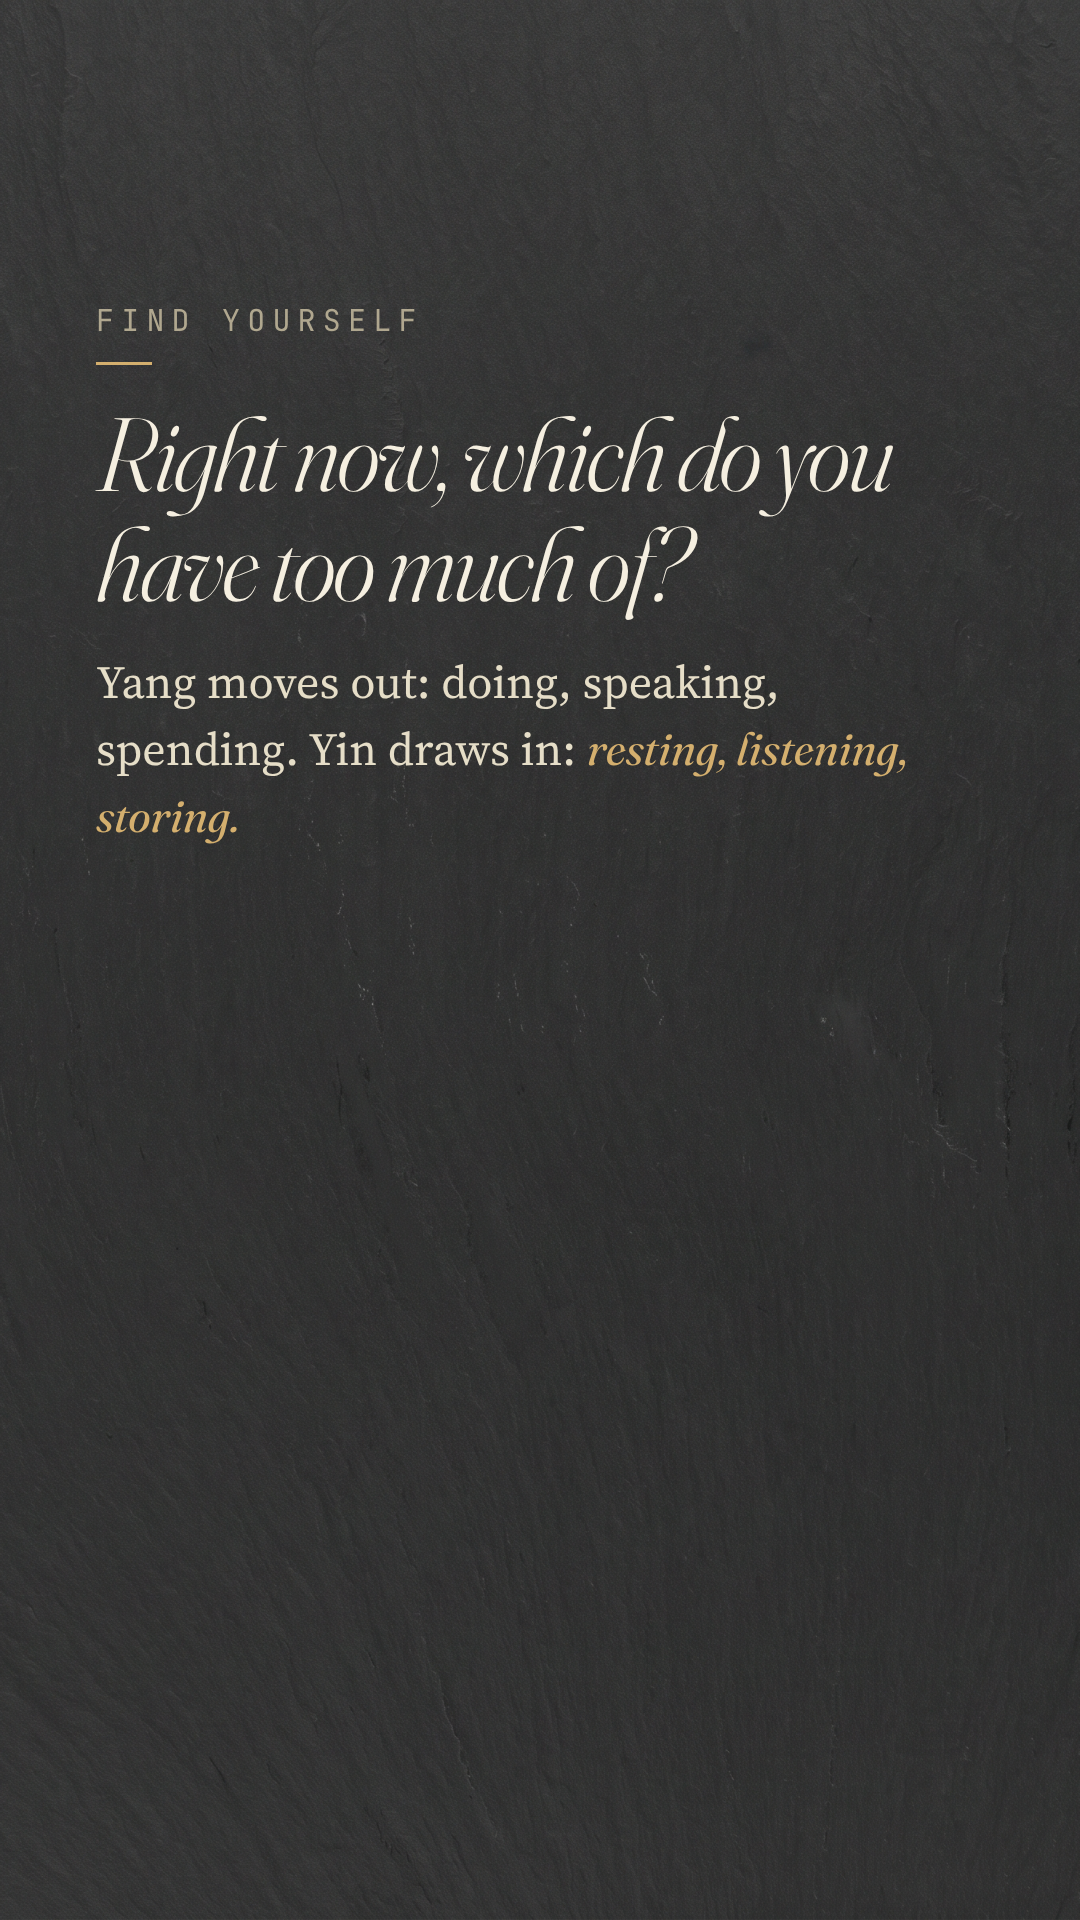
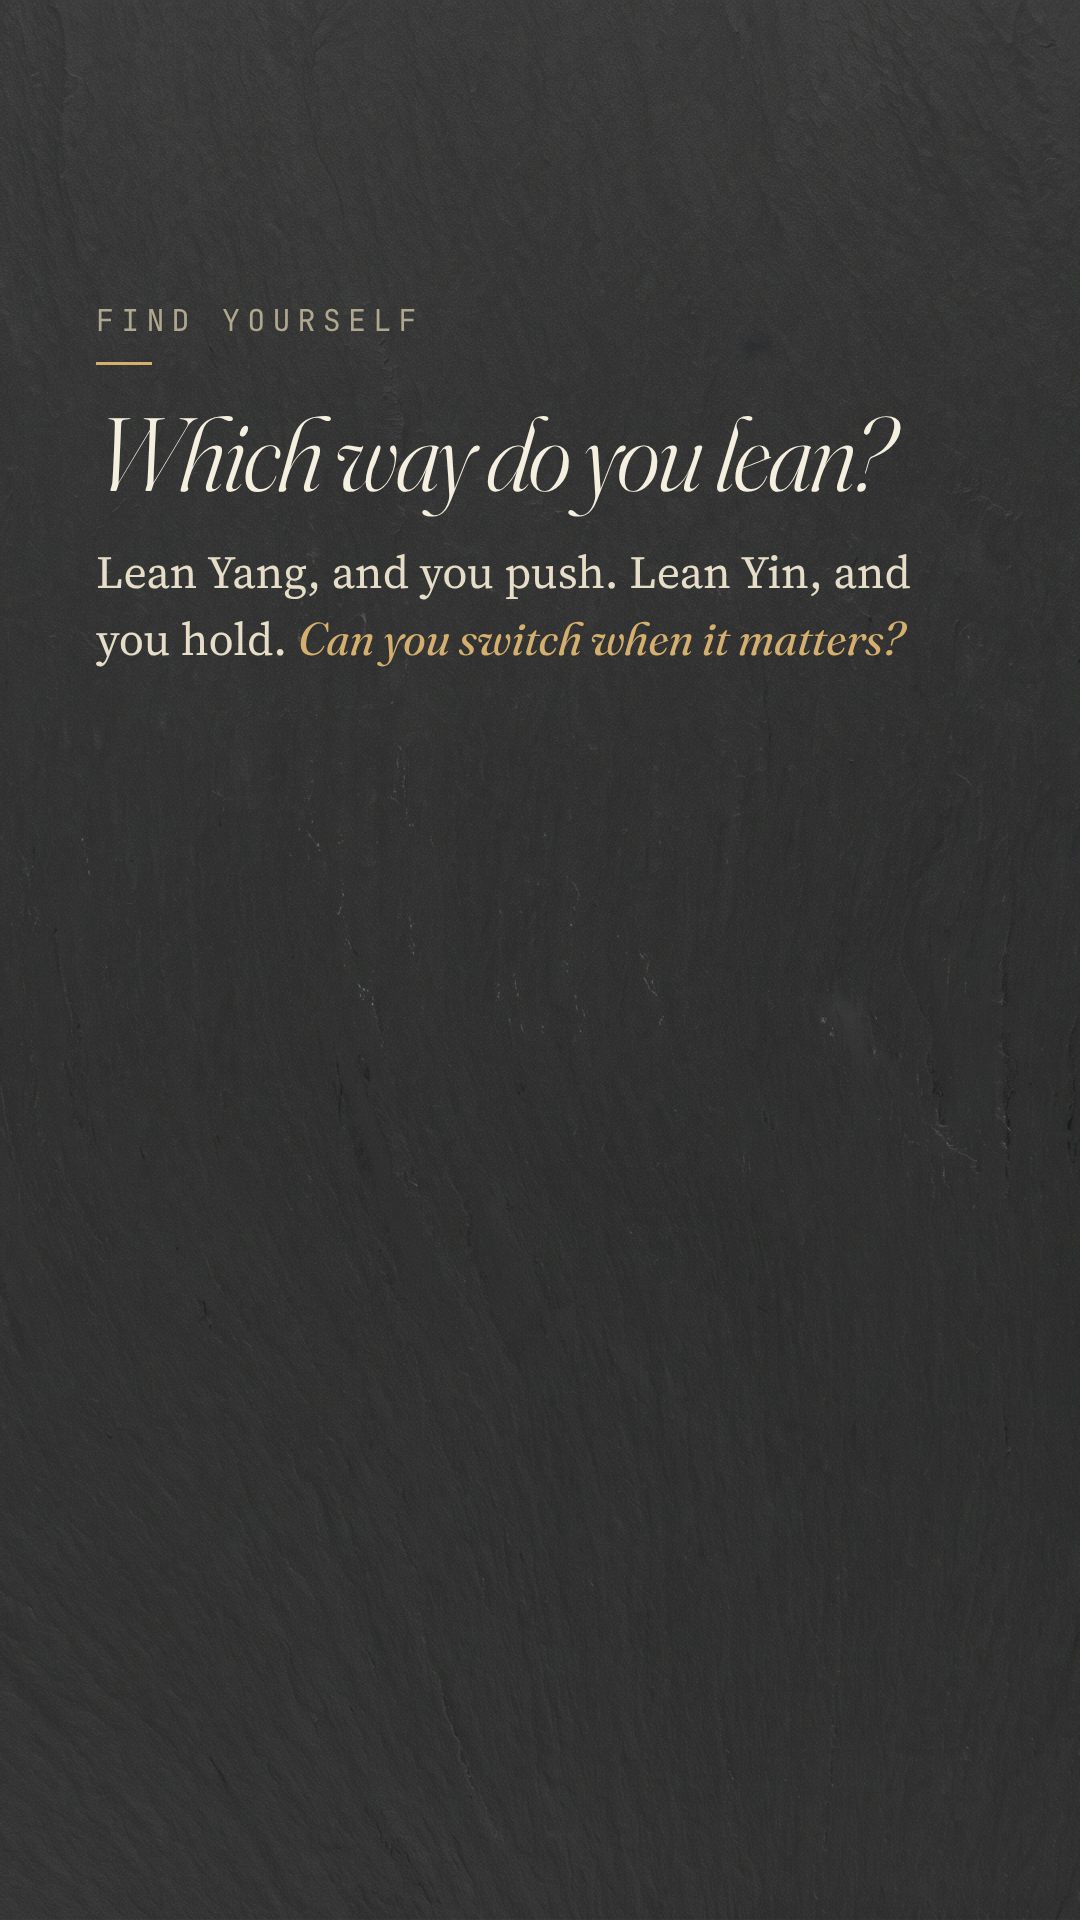
Stories under canon v3.3: Nov 26 poll asks 'Which way do you lean?'; Nov 30 ground swapped from lake ice to morning tea (Ryan, option A)
Claude-Session: https://claude.ai/code/session_015jTJxLP4C6LWRS3UC67sHZ

Changed region(s): [[0.0917, 0.2188, 0.8556, 0.4375]]

diff --git a/engine3/stories.py b/engine3/stories.py
@@ -12,7 +12,7 @@ _HERE = os.path.dirname(os.path.abspath(__file__))
 sys.path.insert(0, _HERE)
 sys.path.insert(0, os.path.join(_HERE, 'reels'))
 from ourkai_type import DARK, LIGHT
-from cardlib import card, render, SCRIM
+from cardlib import card, render, SCRIM, TOPSCRIM
 
 WORK = os.environ.get('OURKAI_WORK', '/home/claude/work')
 BG = f"file://{WORK}/bg"
@@ -71,26 +71,29 @@ STORIES = {
         + card(False, bottom=470, kicker='The classical root', head='One hill. Two sides.',
                body='Yīn first meant the shaded slope of a hill, Yáng the sunlit one.',
                accent='Not two things. One hill, two kinds of light.'),
-    # Thu: find yourself, poll sticker goes in the empty lower half; saved to Timing
+    # Thu: find yourself, poll sticker in the empty lower half (Yang: push / Yin: hold); saved to Timing.
+    # v3.3 rework Nov 25: matches R02, asks which way they lean instead of asking them to diagnose themselves.
     '2026-11-26_find-yourself': ground(True)
-        + card(True, top=300, kicker='Find yourself', head='Right now, which do you have too much of?',
-               body='Yang moves out: doing, speaking, spending. Yin draws in:',
-               accent='resting, listening, storing.'),
+        + card(True, top=300, kicker='Find yourself', head='Which way do you lean?',
+               body='Lean Yang, and you push. Lean Yin, and you hold.',
+               accent='Can you switch when it matters?'),
     # Sat: slow read
     '2026-11-28_slow-read': ground(False)
         + card(False, bottom=520, kicker='Slow read', head='Some days are for starting. Some are for staying in.'),
 }
 
-# Mon: week in the season (Seasons). Lake ice, Runway task 5ee742d1, ice in the top half, fading into dark water under the type.
+# Mon: week in the season (Seasons). v3.3 Nov 25: the lake-ice ground is retired (water/ice look already on the feed).
+_RAT = dict(kicker='This week in the season', head="Winter's deepest month starts Sunday.",
+            body='Major Snow on Dec 6 opens <span class="zh">子</span> <span class="py">Zǐ</span>, the Rat month, '
+                 'when Water runs at its fullest. In the classical map Water holds wisdom. December fills up fast,',
+            accent='so keep some quiet for yourself.')
+# Chosen by Ryan Nov 25 (option A): morning tea in a shaft of sun (Runway 02dd207b), cup in the top half fading into the dark table under the type.
 STORIES['2026-11-30_rat-month'] = (
-    '<div style="position:absolute;inset:0;background:#0b0d10"></div>'
-    f'<img src="{BG}/lake-ice.png" style="position:absolute;left:0;top:0;width:100%;height:1060px;object-fit:cover;object-position:50% 30%">'
-    '<div style="position:absolute;left:0;right:0;top:560px;height:500px;background:linear-gradient(to bottom,rgba(11,13,16,0),#0b0d10)"></div>'
-    '<div style="position:absolute;inset:0;background:rgba(14,13,11,.2)"></div>'
-    + card(True, bottom=470, kicker='This week in the season', head="Winter's deepest month starts Sunday.",
-           body='Major Snow on Dec 6 opens <span class="zh">子</span> <span class="py">Zǐ</span>, the Rat month, '
-                'when Water runs at its fullest. In the classical map Water holds wisdom. December fills up fast,',
-           accent='so keep some quiet for yourself.'))
+    '<div style="position:absolute;inset:0;background:#0d0b09"></div>'
+    f'<img src="{BG}/tea.png" style="position:absolute;left:0;top:0;width:100%;height:1080px;object-fit:cover;object-position:50% 40%">'
+    '<div style="position:absolute;left:0;right:0;top:640px;height:440px;background:linear-gradient(to bottom,rgba(13,11,9,0),#0d0b09)"></div>'
+    + card(True, bottom=470, **_RAT))
+# Option B (lit window, Runway d79498ce, text at the top) was shown and not picked.
 
 
 def _phases():
